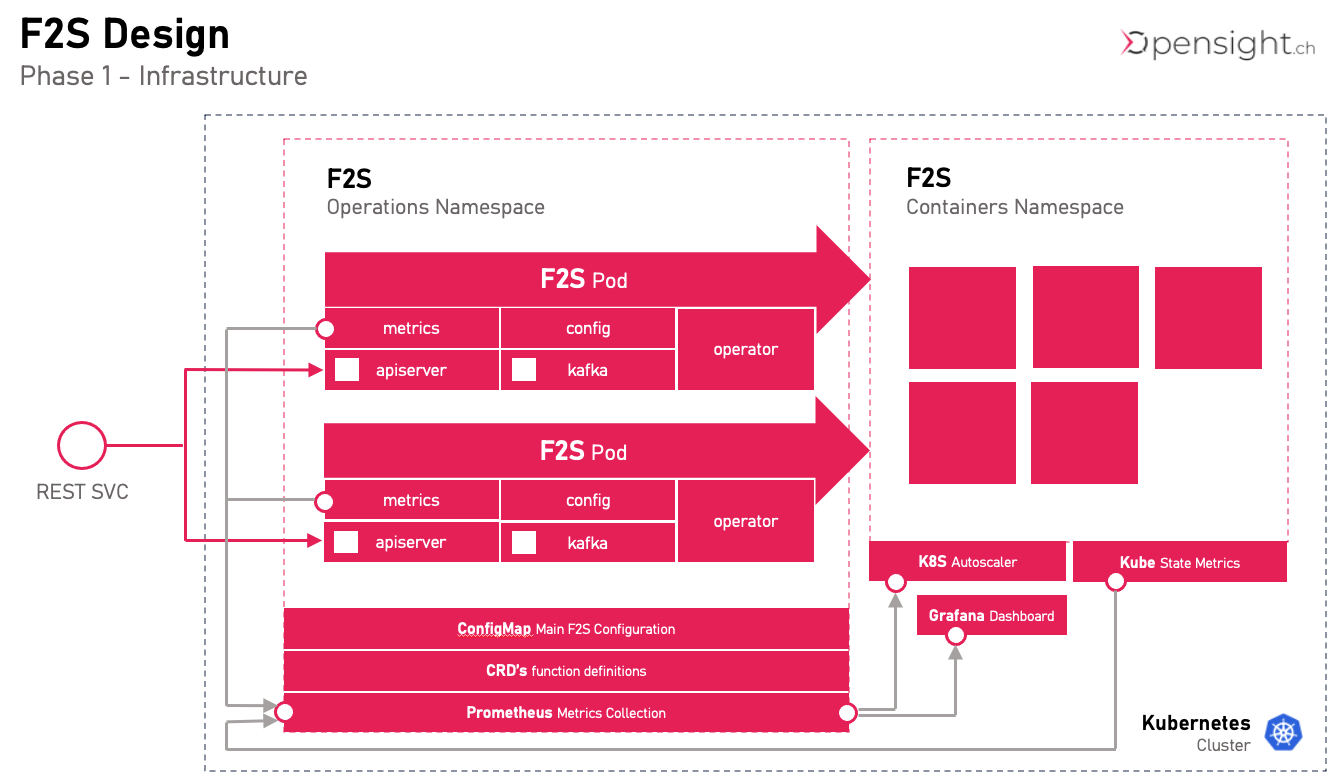
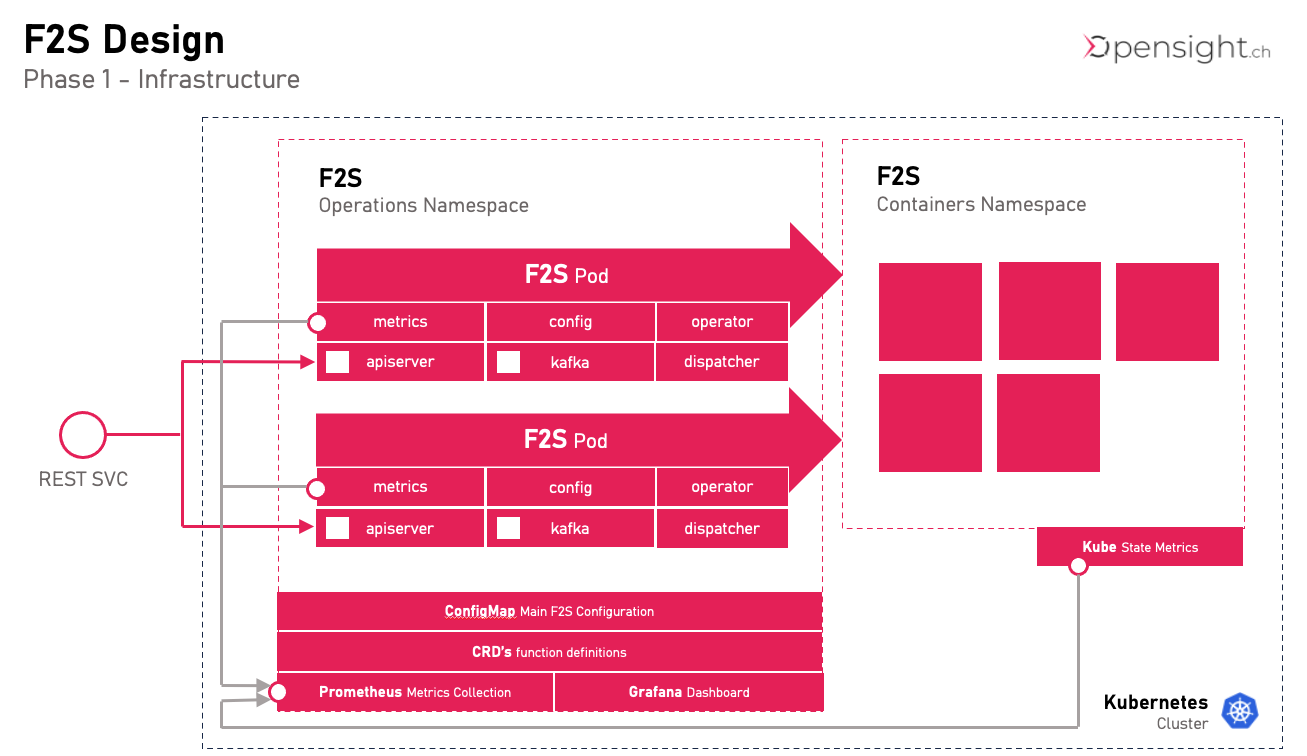
docs: update docs with current architecture

diff --git a/README.md b/README.md
@@ -71,15 +71,17 @@ This is a first draft of the architecture and can still change.
 ![](docs/architecture.png)
 
 * **API Server**<br/>
-  API Server is the REST API Interface. Functions can be defined and invoked via API
+  API Server is the REST API Interface. Functions can be defined and invoked via API. All invocations are sent to dispatcher.
 * **Metrics**<br/>
   F2S Exposes Metrics in order to be able to make scaling decisions and have insight in all activity
 * **Config**<br/>
   The Config package observes CRD's (F2SFunction Declarations) in "f2s" namespace on kubernetes
 * **Kafka**<br/>
-  Package for Interaction with Kafka Event Bus (planned)
+  Package for Interaction with Kafka Event Bus (planned). All invocations are sent to dispatcher.
 * **Operator**<br/>
-  Operator reacts to Config Changes and creates or deletes deployments and services in f2s-containers namespace
+  Operator reacts to Config Changes and creates or deletes deployments and services in f2s-containers namespace. It is also responsible for scaling functions up and down.
+* **Dispatcher**<br/>
+  Dispatcher picks up all incoming requests (REST, Kafka) and decides which function pod should serve the request.
 
 ## Namespaces
 F2S uses 2 fixed namespaces in kubernetes
